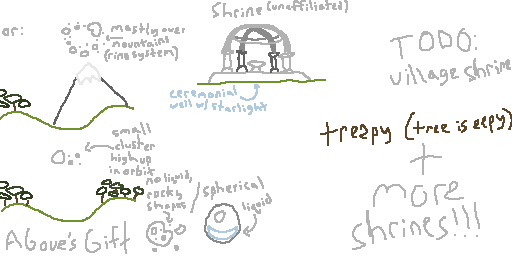
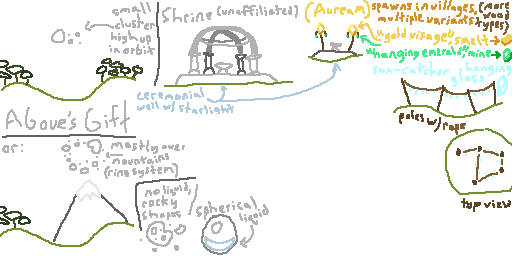
more shrines, fix typos, new tool names, & move attunement notes

diff --git a/stick-starlight/Structures.md b/stick-starlight/Structures.md
@@ -6,7 +6,12 @@ Both naturally generated, and player constructed structures in [[Main - Astral A
   + (but if the canon is that they're supernatural gifts and not asteroids I get the vision)
   + also, I was thinking we could be clever about their generation, like maybe they only generate when a player uses some item to find them, and not on world creation - that could make them renewable and also make them seem less static
 * **Shrines**
-  Ruins of old sites used to worship the constellations. since some of the deities are worshipped or tended to by ingame mobs, we could make different variants for the themes (ex. shrines for villagers to Auream Robotam, would need biome variants). these could be sprinkled with loot and materials that players need to start the mod (if we decide that the gifts don't spawn at world creation - see above)
+  Ruins of old sites used to worship the constellations. these could be sprinkled with loot and materials that players need to start the mod (if we decide that the gifts don't spawn at world creation - see above)
+  some shrines could be unaffiliated and generic; just made of [[stick-starlight/Items#Tools|Celestial Marble]], like AS' shrines. on the other hand, we could expand and make shrines that bear resemblance to specific deities - since some of the deities are worshipped or tended to by ingame mobs, we could make different variants for the themes (ex. shrines built by villagers to worship Auream Robotam, would need biome variants). 
+  
+  although, this latter kind of shrine may be too much lore-wise, because it implies that some mobs (other than villagers/illagers) are intelligent enough to build structures (or that they were accompanied by and could communicate with others that could). all that said, there are vanilla structures with unexplained origins - maybe the same anonymous party that built the ancient cities somehow saw the stars, building shrines to Putridum Custodem? it can't be that far off... how else would they get the wax for candles, wool, books?
+  [[TODO|TODO: Who built the shrines?]]
+
 
 ![[structures-natural-1.png]]
 
@@ -14,13 +19,9 @@ Both naturally generated, and player constructed structures in [[Main - Astral A
 * **Starlight Concentrator**
   A device constructed out of [[stick-starlight/Items#Tools|Celestial Marble]] meant to infuse items with [[stick-starlight/Items#Common Items|Liquid Starlight]]. Used to craft tools, and common resources of the mod
 * **Attunement Sanctum**
-  A large but flat structure (13x13 blocks?) made of both [[stick-starlight/Items#Common Items|Celestial Marble and Darkened Celestial Marble]] {much like the old AS platform}. It is a vital component of [[Attunement#Players|Player Attunment]] and general [[Attunement]] to the [[Lore#Constellations|Constellations]]. To select a [[Lore#Constellations|Constellation]], first it must be night and the [[Lore#Constellations|Constellation]] itself must be "drawn" on the [[stick-starlight/Items#Common Items|Darkened Celestial Marble]] platform (likely either placed or non-grid based); then a beam of light will gently come down from the sky when its correctly drawn. Once the player stands in the center of the beam for a few seconds, the markers will break, and a skill tree will be presented on the platform. Each [[Lore#Constellations|Constellation]] will provide a different skill tree. See [[Attunement#Players|Player Attunment]] for more information.
+  A large but flat structure (13x13 blocks?) made of both [[stick-starlight/Items#Common Items|Celestial Marble and Darkened Celestial Marble]] {much like the old AS platform}. It is a vital component of [[Attunement#Players|Player Attunement]] and general [[Attunement]] to the [[Lore#Constellations|Constellations]]. To select a [[Lore#Constellations|Constellation]], first it must be night and the [[Lore#Constellations|Constellation]] itself must be "drawn" on the [[stick-starlight/Items#Common Items|Darkened Celestial Marble]] platform (likely either placed or non-grid based); then a beam of light will gently come down from the sky when its correctly drawn. Once the player stands in the center of the beam for a few seconds, the markers will break, and a skill tree will be presented on the platform. Each [[Lore#Constellations|Constellation]] will provide a different skill tree. See [[Attunement#Players|Player Attunement]] for more information.
   [[Attunement#Tools & Armor|Tools & Armor]] can be [[Attunement|Attuned]] as well if it is tossed into the beam of light.
-  Possibly also handles "Item Sacrificing" for some [[Attunement#Leveling|Attunment Leveling]]
-  
-  Attunement notes [[TODO|TODO: move this to its own file]]: 
-    we might want an item or player to be "awakened" here to establish the capacity for attunement (like hammering an ancient core onto something in Embers) where they attune with no constellation or added effects.
-    the attunement could be based on "recipes" where some extra in-world thing is added to the structure to determine arguments, on top of the in-world substructure that determines the constellation. for example, maybe you build the constellation hologram, but then you might add some 4 "lens" blocks whose color/shape combinations determine what attunement effect is granted (this is not the working idea but something like that, an extra layer to add to the process that narrows down the "recipe")
+  Possibly also handles "Item Sacrificing" for some [[Attunement#Leveling|Attunement Leveling]]
 
 
 [[TODO|TODO: Write more structures]]

diff --git a/stick-starlight/Attunement.md b/stick-starlight/Attunement.md
@@ -1,15 +1,19 @@
 Attunement in [[Main - Astral Attunement and Artisanry]] is binding an object to a [[Lore|Starlight Power]]. The player counts as an object.
 
+Lani Attunement notes: 
+    we might want an item or player to be "awakened" here to establish the capacity for attunement (like hammering an ancient core onto something in Embers) where they attune with no constellation or added effects.
+    the attunement could be based on "recipes" where some extra in-world thing is added to the structure to determine arguments, on top of the in-world substructure that determines the constellation. for example, maybe you build the constellation hologram, but then you might add some 4 "lens" blocks whose color/shape combinations determine what attunement effect is granted (this is not the working idea but something like that, an extra layer to add to the process that narrows down the "recipe")
+
 ## Tools & Armor
-Only mod specific armor/tools can be attuned to a [[Lore#Constellations|Constellation]]. Attunement grants different tools specific abilities based on the Constellation. Importantly, since tools and armor are much more simplistic than [[Attunement#Players |Players]]: they lack the [[Attunement#Attunment Trees|Attunment Trees]] players have.
+Only mod specific armor/tools can be attuned to a [[Lore#Constellations|Constellation]]. Attunement grants different tools specific abilities based on the Constellation. Importantly, since tools and armor are much more simplistic than [[Attunement#Players |Players]]: they lack the [[Attunement#Attunement Trees|Attunement Trees]] players have.
 
 ## Players
 Players are a special case of Attunement, for instead of a [[Powers#Attribute Changes|basic power]], they can gain more [[Powers#Game Changing|advanced powers]] as well as the basic buffs. For this to be conducted, first the player must build a [[Structures#Player Made|Attunement Sanctum]] to unlock the ability to attune. Once the [[Structures#Player Made|Attunement Sanctum]] is built and use, the player may select a [[Lore#Constellations|Constellation]] to begin attunement.
-##### Attunment Trees
-For [[Attunement#Players|Player Attunment]], each Constellation hosts a different "skill tree" of sorts, each leaf costs `N` [[Attunement#Leveling|Points]], but grants different [[Powers]]. As well, the powers may either be Major or Minor. [[Powers#Attribute Changes|Minor Powers]] are simplistic attribute changes, such as faster walk speed or less hunger; commonly basic things that are beneficial. While [[Powers#Game Changing|Major Powers]] often change the game in large ways, but with a cost. Said [[Powers#Game Changing|Major Powers]] are found either at the end of a Attunement Tree, or at "choke points" as a gate.
+##### Attunement Trees
+For [[Attunement#Players|Player Attunement]], each Constellation hosts a different "skill tree" of sorts, each leaf costs `N` [[Attunement#Leveling|Points]], but grants different [[Powers]]. As well, the powers may either be Major or Minor. [[Powers#Attribute Changes|Minor Powers]] are simplistic attribute changes, such as faster walk speed or less hunger; commonly basic things that are beneficial. While [[Powers#Game Changing|Major Powers]] often change the game in large ways, but with a cost. Said [[Powers#Game Changing|Major Powers]] are found either at the end of a Attunement Tree, or at "choke points" as a gate.
 
 ![[book-attune-tree.png]]
 ##### Leveling
-Once [[Attunement#Players|Attuned]] to a [[Lore#Constellations|Constellation]], the player can gain "levels" with the [[Lore#Constellations|Constellation]]. Each [[Lore#Constellations|Constellation]] has a different method of gaining XP (Ranging from preforming an action, to sacrificing items on the [[Structures#Player Made|Attunement Sanctum]]). And once enough XP is gained, the player levels-up their connection, and gains a "point" (with the next level being marginally more expensive to get). The points then can be spent at the [[Attunement#Attunment Trees|Attunment Tree]] for that specific [[Lore#Constellations|Constellation]].
+Once [[Attunement#Players|Attuned]] to a [[Lore#Constellations|Constellation]], the player can gain "levels" with the [[Lore#Constellations|Constellation]]. Each [[Lore#Constellations|Constellation]] has a different method of gaining XP (Ranging from preforming an action, to sacrificing items on the [[Structures#Player Made|Attunement Sanctum]]). And once enough XP is gained, the player levels-up their connection, and gains a "point" (with the next level being marginally more expensive to get). The points then can be spent at the [[Attunement#Attunement Trees|Attunement Tree]] for that specific [[Lore#Constellations|Constellation]].
 
 [[TODO|TODO: Explain everything]]

diff --git a/stick-starlight/Powers.md b/stick-starlight/Powers.md
@@ -1,9 +1,11 @@
 Powers in [[Main - Astral Attunement and Artisanry]] are a catch-all term for abilities given to the player. Ranging from basic attribute changes (faster walk, jump height, step up, etc), activated skills gifted by the [[Lore|Constellations]], to damage resistance of certain types
 
+
+
 ## Attribute Changes
-Non-togglable changes, either granted via [[stick-starlight/Items#Tools|Tools]]/[[stick-starlight/Items#Armor|Armor]], or by [[Attunement#Attunment Trees|Attunment Leveling]] 
+Non-togglable changes, either granted via [[stick-starlight/Items#Tools|Tools]]/[[stick-starlight/Items#Armor|Armor]], or by [[Attunement#Attunement Trees|Attunement Leveling]] 
 
 ## Game Changing
-Large scales that often a cost to them, granted by [[Attunement#Leveling|Attunment Leveling]] most commonly
+Large scales that often a cost to them, granted by [[Attunement#Leveling|Attunement Leveling]] most commonly
 
 [[TODO|TODO: Write the powers here]]

diff --git a/stick-starlight/Constellation Impls.md b/stick-starlight/Constellation Impls.md
@@ -1,6 +1,6 @@
 This page will cover how Constellations will work in game for [[Main - Astral Attunement and Artisanry]]. **Importantly:** when the Constellations are being generated, we will need to account for their [[Constellation Impls#Shape|Shape]], since two overlapping Constellations could cause massive issues!
 ## Registration
-To allow addons (such as [[Druidic Addenda]]) to add in their own Constellations, the system will need to be very expandable and preferable simple when possible. Thus, building off of Neoforge's registries will be the best. Each Constellation will need to define their: **[[Constellation Impls#Shape|Shape]]**, and **[[Attunement#Attunment Trees|Attunment Tree]]** (This may be expanded later on)
+To allow addons (such as [[Druidic Addenda]]) to add in their own Constellations, the system will need to be very expandable and preferable simple when possible. Thus, building off of Neoforge's registries will be the best. Each Constellation will need to define their: **[[Constellation Impls#Shape|Shape]]**, and **[[Attunement#Attunement Trees|Attunement Tree]]** (This may be expanded later on)
 ## Discovery 
 Each Constellation will need to be "discovered" by the player, since in every world they will generate in a random location in the night sky. The player will do this by using an [[stick-starlight/Items#Tools|Aquamarine Spyglass]], and attempting to connect stars. To make this less painful, stars in Constellations will have a slight glimmer to them when in the [[stick-starlight/Items#Tools|Aquamarine Spyglass]]
 ## Shape

diff --git a/stick-starlight/Items.md b/stick-starlight/Items.md
@@ -53,6 +53,8 @@ Armor is a bit more complicated; but, the overall idea is that armor does not ge
 		* Crescent Staff (Magical staff that emits light beams, but drains [[stick-starlight/Items#Common Items|Liquid Starlight]])
 			+ ooh I like this as a weapon/tool
 			+ I do think the theming could be narrowed down / not just directly named after celestial bodies
+				+ Pulsar Hammer, Gamma Ray Hammer, Photospheric (as in `Photosphere`) Hammer, Sunspot Hammer, Quasar Hammer
+				+ instead of Crescent, what if we were unique and used Gibbous for once? Gibbous Staff?
 		* Ionocube (Named after the `Ionosphere`, pulse based tool to shove the player backwards, and mobs/entities forward)
 			+ I am HERE for these meteorological REFERENCES
 	* Armor 